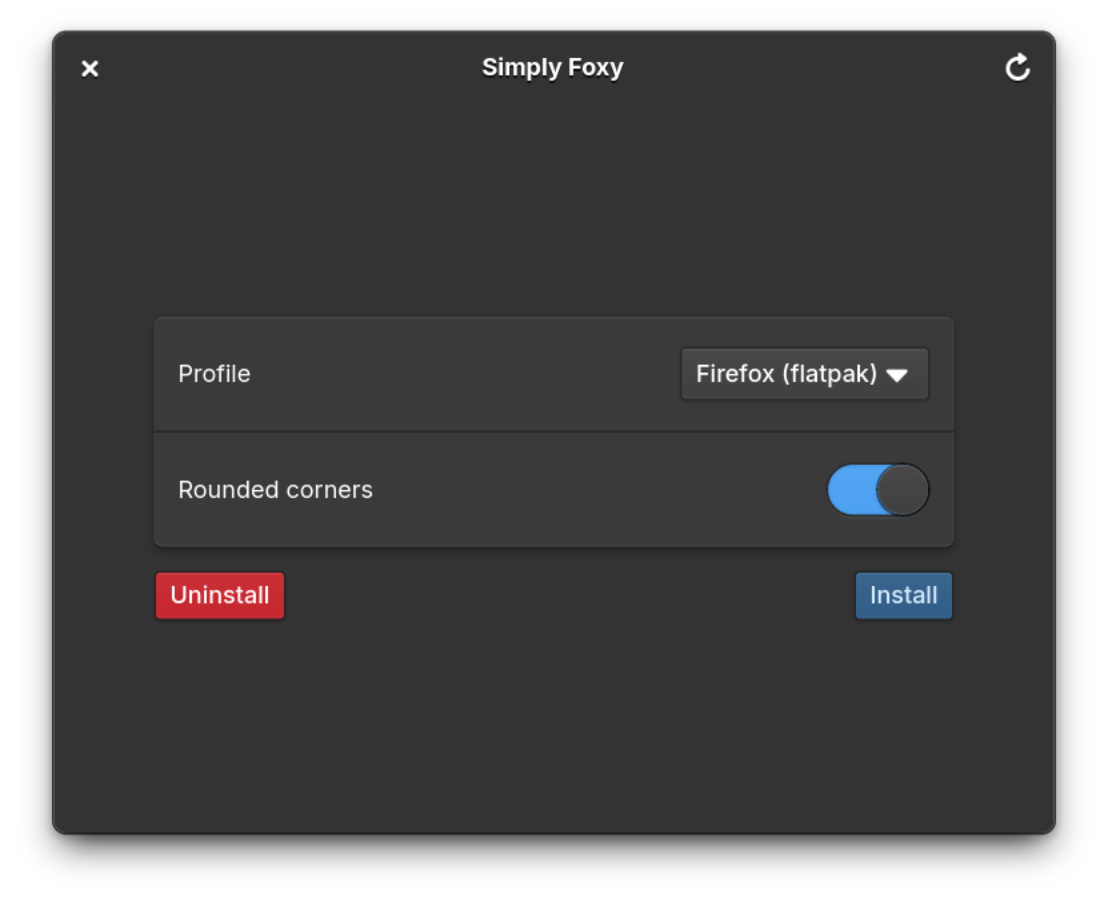
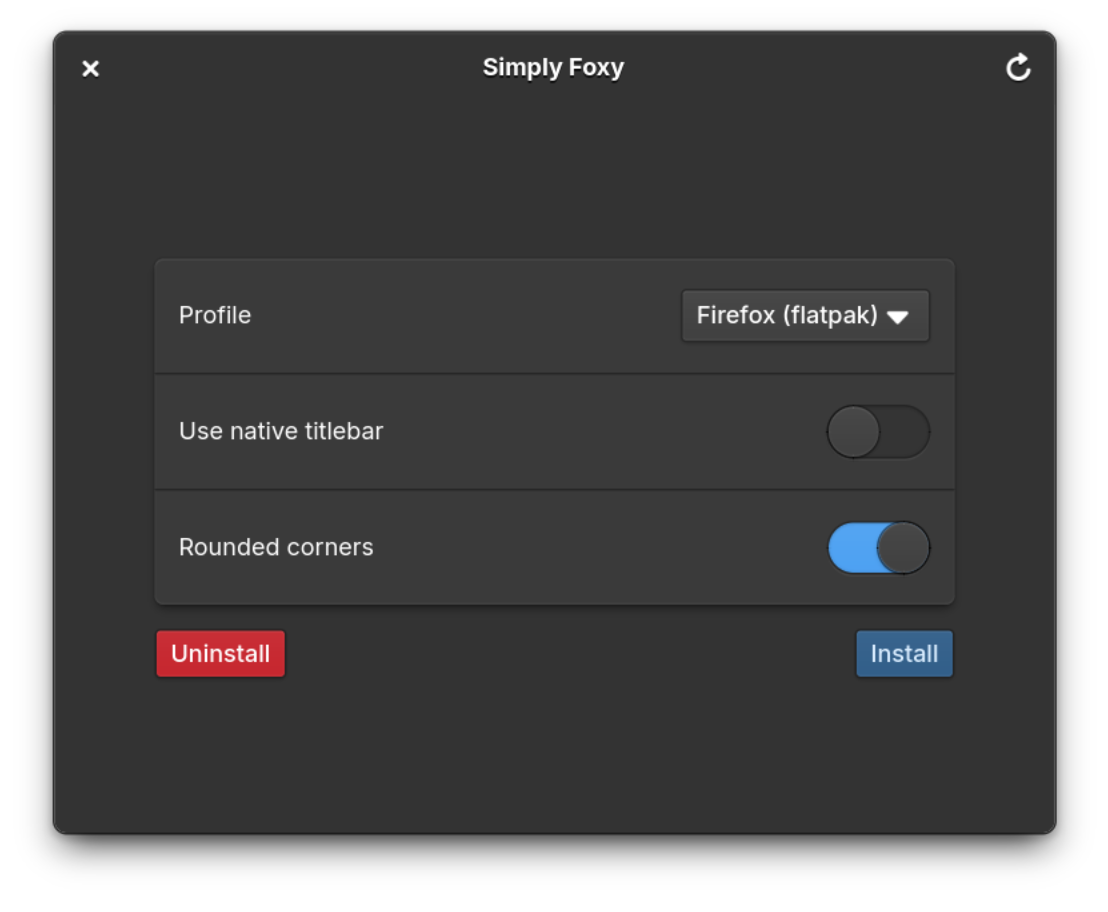
Update screenshot

diff --git a/README.md b/README.md
@@ -1,6 +1,6 @@
 # Simply Foxy
 
-![Screenshot](data/screenshot.png?raw=true)
+![Screenshot](data/screenshot.png)
 
 Simple gui installer for [elementary OS Firefox Theme](https://github.com/Zonnev/elementaryos-firefox-theme) with some additional options on top. Written in C++ using [peel](https://gitlab.gnome.org/bugaevc/peel).
 
